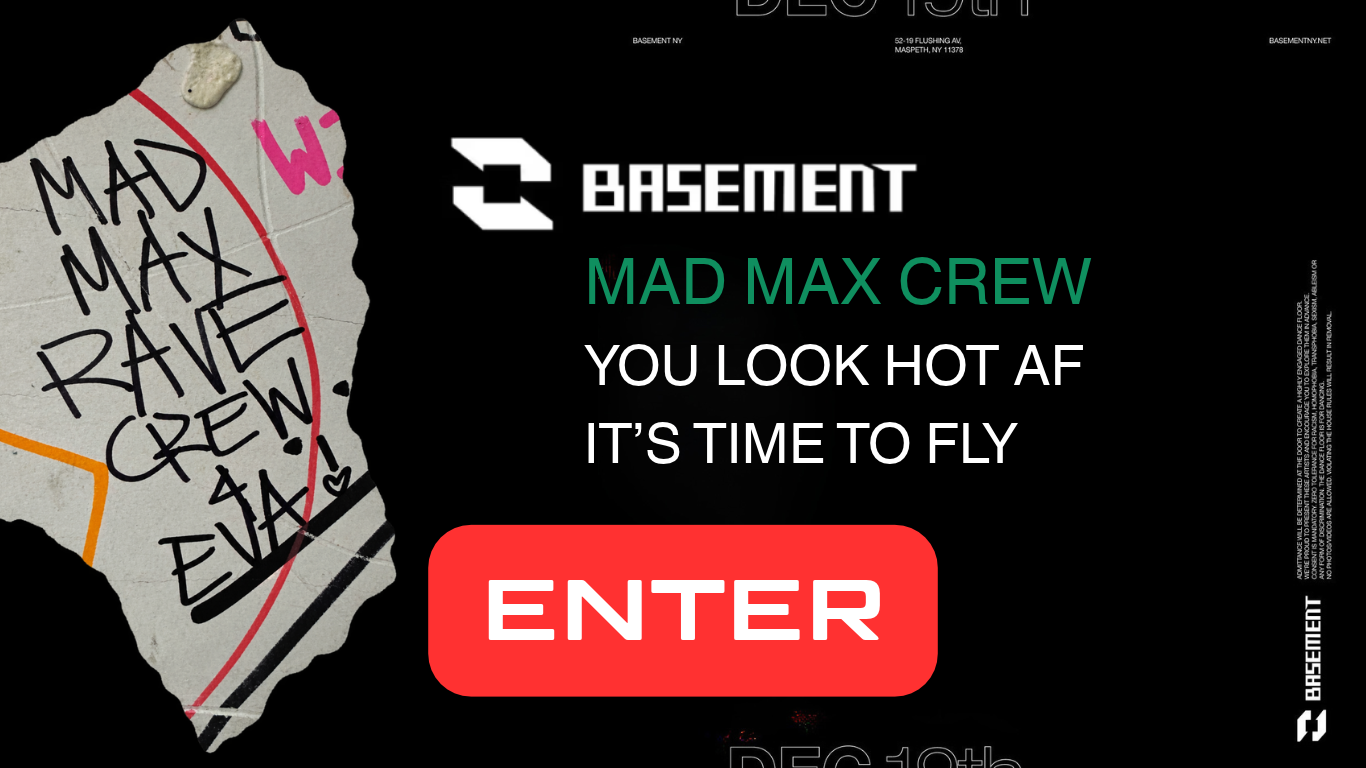
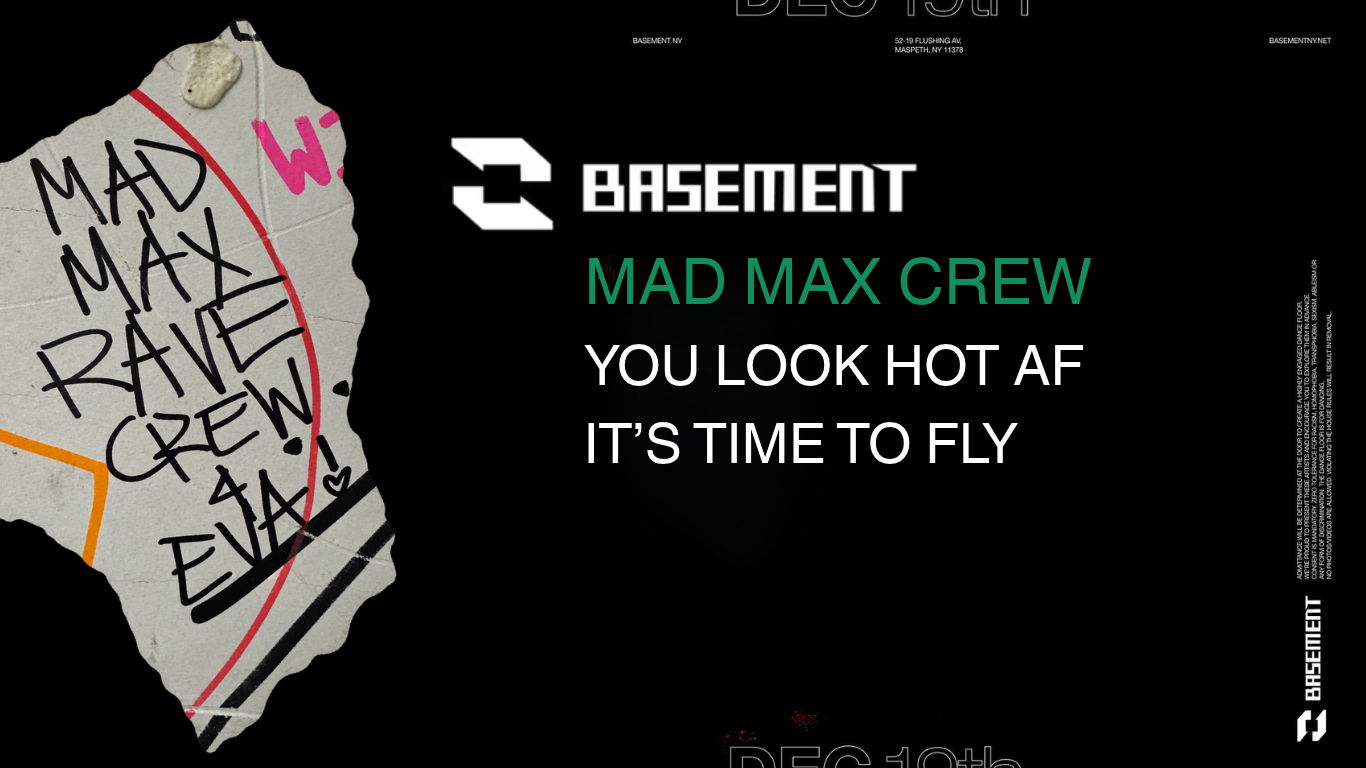
Add visible hover-pop ENTER on clean landing poster
Replace landing mock with the clean Basement image (no baked-in CTA) and style a real ENTER button that scales and turns green on hover.

Changed region(s): [[0.3075, 0.6562, 0.7072, 0.9062]]

diff --git a/index.html b/index.html
@@ -48,46 +48,54 @@
       pointer-events: none;
       user-select: none;
     }
-    /* Transparent hotspot over mock ENTER — no CSS label (mock already says ENTER) */
+    /* Visible ENTER on clean poster (mock has no CTA) — pops on hover */
     #enterBtn {
       appearance: none; -webkit-appearance: none;
-      border: 0; padding: 0; margin: 0;
       position: absolute;
       left: 50%;
-      top: 79.5%;
+      top: 68%;
       transform: translate(-50%, -50%) scale(1);
-      width: min(30vw, 410px);
-      height: clamp(56px, 12vh, 92px);
       z-index: 30;
+      margin: 0;
+      padding: 0.72em 1.7em;
+      border: 2px solid #fff;
+      border-radius: 2px;
+      background: #000;
+      color: #fff;
       cursor: pointer;
-      background: transparent;
-      color: transparent;
-      border-radius: 999px;
       pointer-events: auto;
       touch-action: manipulation;
-      font-size: 0;
-      box-shadow: none;
+      font-family: "Arial Black", "Helvetica Neue", Helvetica, Arial, sans-serif;
+      font-size: clamp(18px, 3.2vw, 30px);
+      font-weight: 900;
+      letter-spacing: 0.22em;
+      line-height: 1;
+      text-indent: 0.22em;
+      text-transform: uppercase;
       transition:
         transform 0.18s cubic-bezier(0.34, 1.45, 0.64, 1),
-        box-shadow 0.18s ease;
+        background-color 0.18s ease,
+        border-color 0.18s ease,
+        color 0.18s ease;
       will-change: transform;
     }
     #enterBtn:hover,
     #enterBtn:focus-visible {
-      transform: translate(-50%, -50%) scale(1.08);
-      box-shadow: 0 0 0 2px rgba(255,255,255,0.28), 0 12px 28px rgba(225, 6, 0, 0.35);
+      transform: translate(-50%, -50%) scale(1.14);
+      background: #008040;
+      border-color: #008040;
+      color: #fff;
       outline: none;
     }
     #enterBtn:active {
       transform: translate(-50%, -50%) scale(0.96);
     }
-    #enterBtn span { position: absolute; width: 1px; height: 1px; overflow: hidden; clip: rect(0,0,0,0); }
   </style>
 </head>
 <body>
   <div id="start">
     <img class="mock" src="landing-mock.png" alt="Basement — Mad Max Crew" />
-    <button type="button" id="enterBtn" onclick="window.__basementStartGame(event)" aria-label="Enter"><span>ENTER</span></button>
+    <button type="button" id="enterBtn" onclick="window.__basementStartGame(event)" aria-label="Enter">ENTER</button>
   </div>
 
   <div id="hint">↑↓ walk · ←→ turn · Shift sprint · Mouse look · Esc release</div>
